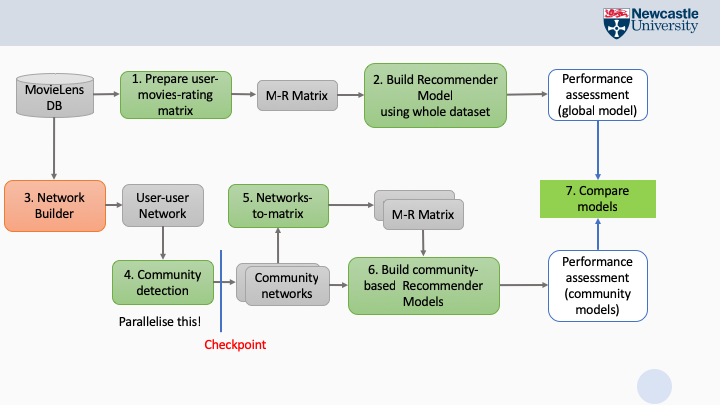
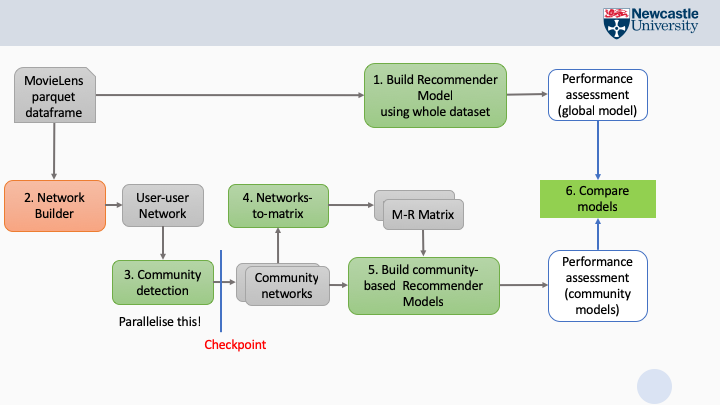
readme

diff --git a/README.md b/README.md
@@ -31,6 +31,35 @@ The dataset comes in two sizes:
    
 You will be using only one of the files in the dataset: **ratings.csv**.  The large version on the cluster has been stored as a parquet file, a binary format for Spark dataframes that is much faster to load than csv.
 
+## Task 1: build a global recommendation model
+
+- Start from the **task1** notebook provided (including loading  **ratings.paquet** into a dataframe
+- train a recommender model using the ALS approach. You may refer to the example code on the [Spark doc for Collaborative Filtering](https://spark.apache.org/docs/latest/mllib-collaborative-filtering.html#examples). However be aware that the input data format may be different
+- after you build the model, you need to add code to automatically optimise the *rank* hyperparameter, usiong RMSE as your performance metric. Report your best results in the notebook.
+
+## Task 2: Build the user-user network.
+
+- load up **ratings.parquet** again
+- create a graph where:
+  -- for each psir of users *u1*, *u2* there is an edge with associated weight *w*, where *w* is the number of movies that both *u1* and *u2* have rated (regardless on the actual rating).
+  -- if *u1* and *u2* have not got any rating in common, there is no edge between them.
+
+It is important that you comply with the prescribed output format for the graph, because it is to be used as input for the next step.
+In Spark memory, this is a dataframe with Schema
+```(source_node, target_node, weight)```
+    
+example:    
+```    source,target,weight
+    1,6,1
+    1,8,1
+    2,3,1
+    2,4,1
+```
+a small samnple file is provided [here](data/edge_sample.csv). 
+
+
+
+
 ## Repository File Structure
 
 `./data` : contains an example edge file for experimenting purpose.  
